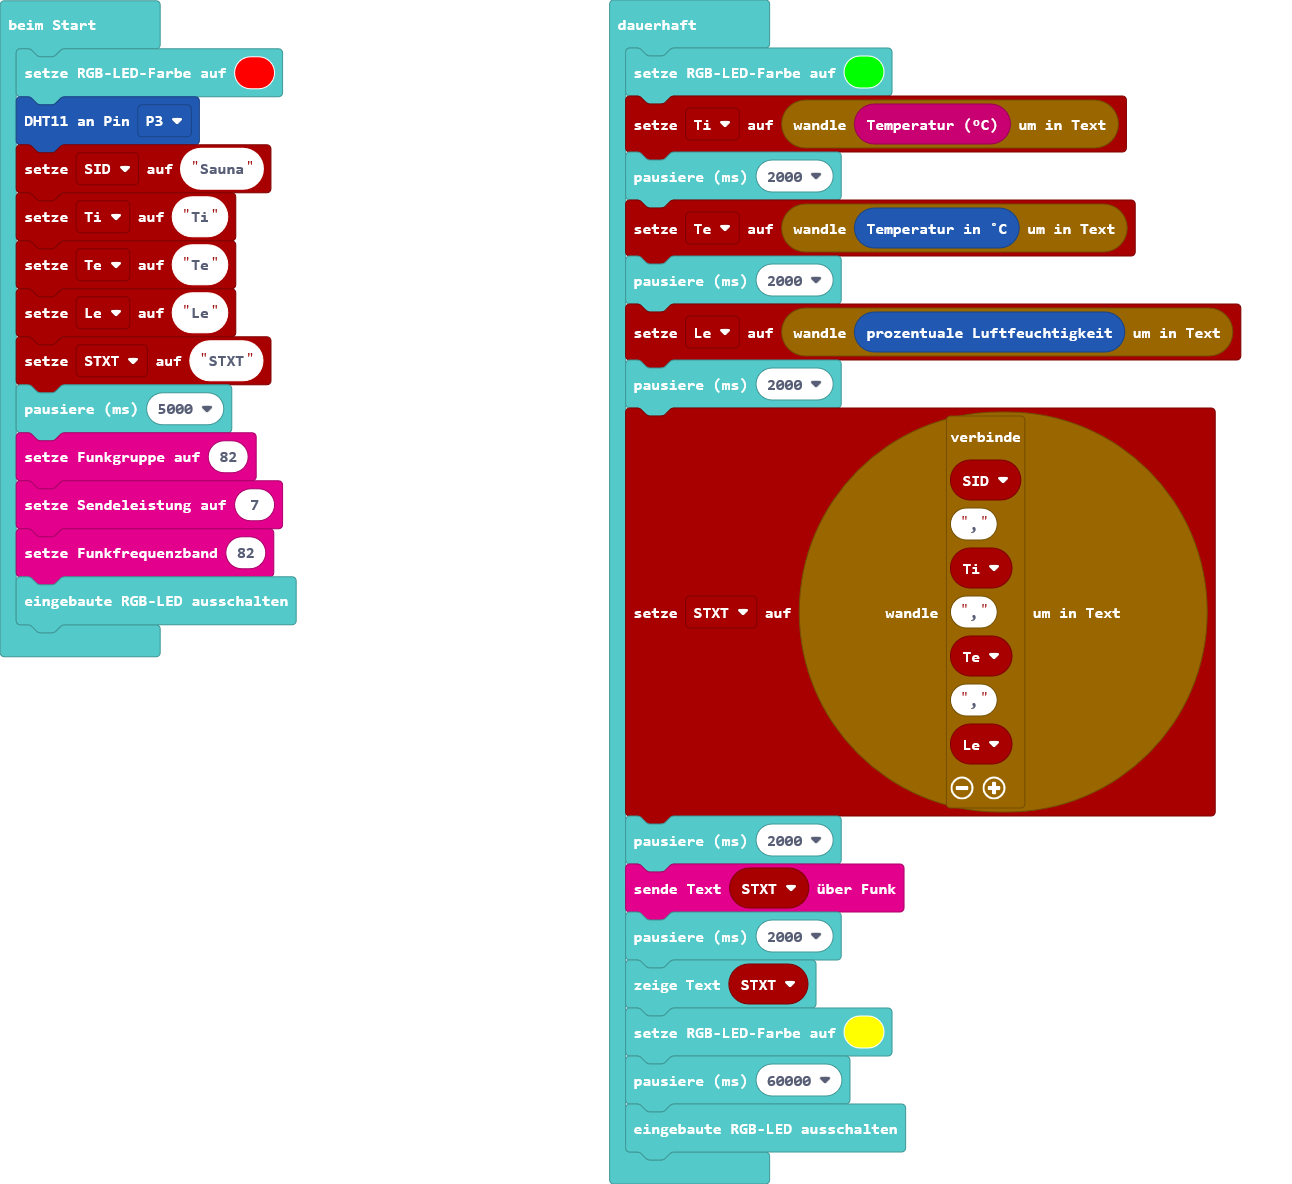
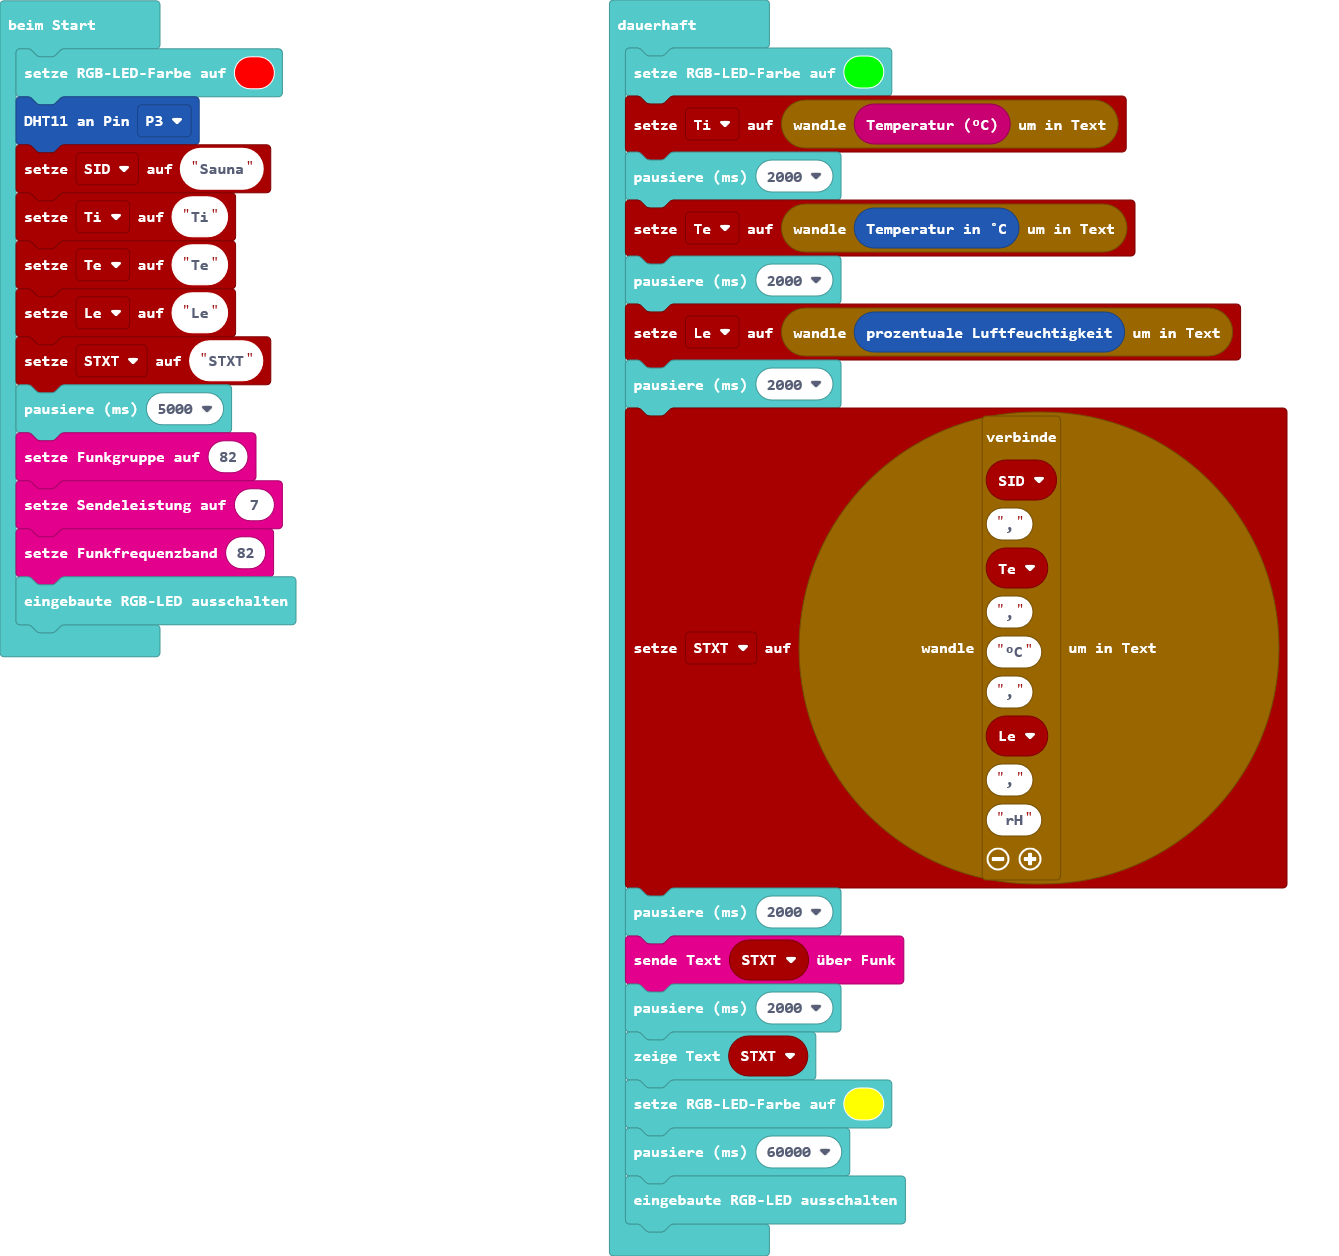
Aktualisiere main.blocks, main.ts

Changed region(s): [[0.4334, 0.0, 0.9598, 1.0], [0.0, 0.0, 0.2477, 0.5625]]

diff --git a/main.ts b/main.ts
@@ -18,7 +18,7 @@ basic.forever(function () {
     basic.pause(2000)
     Le = convertToText(DHT11.humidity())
     basic.pause(2000)
-    STXT = convertToText("" + SID + "," + Ti + "," + Te + "," + Le)
+    STXT = convertToText("" + SID + "," + Te + "," + "°C" + "," + Le + "," + "rH")
     basic.pause(2000)
     radio.sendString(STXT)
     basic.pause(2000)
